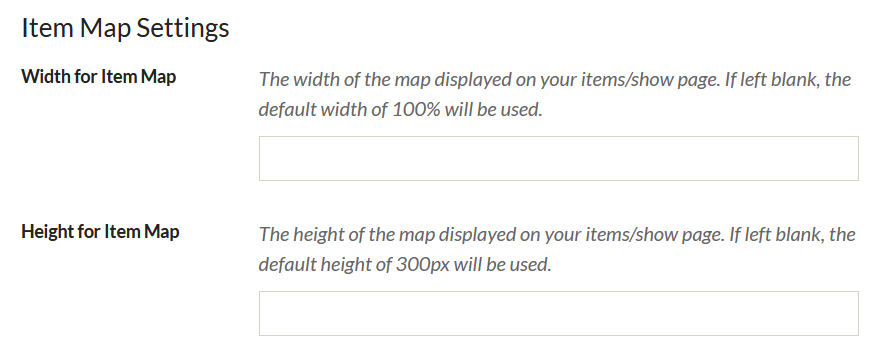
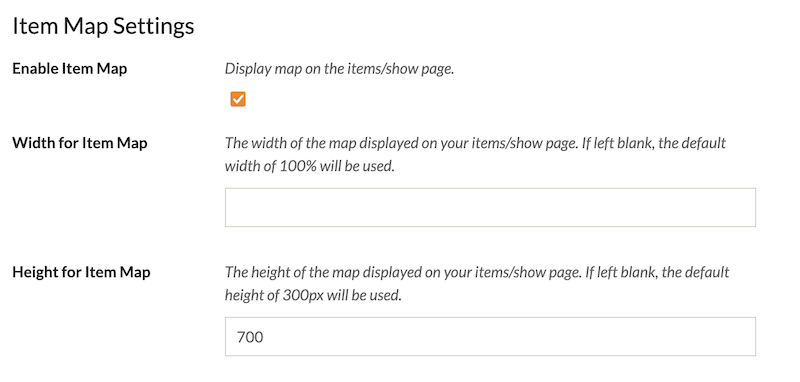
update geolocation config

diff --git a/docs/Plugins/Geolocation.md b/docs/Plugins/Geolocation.md
@@ -1,6 +1,6 @@
 # Geolocation
 
-The [Geolocation plugin](https://omeka.org/classic/plugins/Geolocation/){target=_blank} allows you to assign a location to items in your Omeka Classic site. The locations are displayed on maps on individual items page and on a browsable map of all geolocated items.
+The [Geolocation plugin](https://omeka.org/classic/plugins/Geolocation/){target=_blank} allows you to assign a worldwide location to items in your Omeka Classic site. The locations are displayed on maps on individual items page and on a browsable map of all geolocated items. Maps can also be added to exhibits. 
 
 There is a [screencast for Geolocation (version 2.2.4) demonstrating its basic functionality](https://vimeo.com/156298642){target=_blank}:
 
@@ -77,20 +77,21 @@ The same map with Enable marker clusters checked:
 ![A low-detail map of the British Isles, with one blue map marker in southwest England and a yellow circle with the label 17 roughly over London](../doc_files/plugin_images/geolocation-cluster.png)
 
 ### Item map settings
-These settings are for the map display on an `item/show` page.
+These settings are for the map display on an `item/show` page. 
 
 ![Item Map settings](../doc_files/plugin_images/geolocation_ItemMap.png)
 
+- **Enable Item Map**: - Display a map for each item that has one or more map location markers. For items with no geolocation data, the map is not displayed. The placement of the map is governed by each theme. 
 - **Width for Item Map**: set in percent; defaults to 100% if left blank.
 - **Height for Item Map**: set in pixels; defaults to 300px if left blank. 
 
 ### Map integration
-These settings are for integration of the geolocation map into the site menu and the [Contribution](Contribution.md) plugin's form. 
+These settings are for integration of the geolocation map into browse pages, and into the [Contribution](Contribution.md) plugin's form. 
 
 ![Map Integration settings](../doc_files/plugin_images/geolocation_Mapint.png)
 
-- **Add link to map on Items/Browse navigation**: click to make active. 
-- **Add map to contribution form**: click to make active. Note that this will only work if you have the Contribution plugin installed and active.
+- **Add link to map on Items/Browse navigation**: This will make a "Browse Map" link appear alongside the "Browse Items", "Browse Tags", and "Advanced Search" links at the top of those pages. See the image below in the "View a public map" section. 
+- **Add map to contribution form**: Note that this will only work if you have the Contribution plugin installed and active.
 
 ## Add location to an item
 
@@ -121,15 +122,13 @@ Don't forget to save your changes.
 
 ## View a public map 
 
-Visitors to your Omeka site can now use a map to browse through all of your geolocated items.
+Visitors to your Omeka site can now use a map to browse through all of your geolocated items. The generic map showing all of your items with geolocation metadata can be found at `yourclassicsite/items/map`, which you can enable or disable in your site navigation. 
 
-When configuring the plugin, if you selected "Add Link to Map on Items/Browse Navigation," a "Browse Map" link will be added automatically to the secondary navigation on the `items/browse` page.
+If you enable "Add Link to Map on Items/Browse Navigation" in the plugin configuration, the "Browse Map" link will also be added to the secondary navigation on the `items/browse` page. 
 
 ![Public items map view in the Thanks Roy theme](../doc_files/plugin_images/geolocation_pubbr.png)
 
-From this view, visitors may browse all mapped items, browse by tag, search for items and browse the map.
-
-They may also locate a mapped item by clicking on the items listed in the column to the right side of the map.
+Users can click within the map on pins to see the relevant item, or click an item title in the right sidebar to move the map. 
 
 ## Use the admin map
 
@@ -157,58 +156,4 @@ The exhibit will display a single map with the markers for those specific items,
 
 The geolocation [shortcode](../Content/Shortcodes.md#geolocation) will create a map of items based on parameters it is given.
 
-The shortcode is `[geolocation]`. Without any additional parameters, it will return a map of all items that contain geolocation data, limited by the records per page as set in the Geolocation plugin configuration.
-
-**Options**
-
-`fit`
-:   specify whether to allow google map to automatically center and zoom the map to fit all of the markers. This is on by default.
-
-To manually specify the map/location zoom, use the following options. Note, to use these options, fit must be set to ‘0’ or ‘false’.
-
-`lat` 
-:   specify the latitude of the map’s initial center point, in degrees.
-:   Must be between -90 and 90.
-
-`lon` 
-:   specify the longitude of the map’s initial center point, in degrees.
-:   Must be between -180 and 180
-
-`zoom` 
-:   specify the initial zoom level of the map. 0 is the most zoomed out.
-
-If any of `lat`, `lon`, or `zoom` are not specifically set, and ‘fit’ is set to `0` or `false`, the settings from the Geolocation plugin configuration page will be used.
-
-`type` 
-:   specify the type of google map that appears. Defaults to the setting from the Geolocation plugin configuration page.
-- roadmap - displays the road map view
-- satellite - displays Google Earth satellite images
-- hybrid - displays a mixture of road map and satellite views
-- terrain - displays a physical map based on terrain information
-
-`collection` 
-:   limits the map’s items to those from a specific collection, using the collection ID number. Only one collection may be specified.
-:   For example: `[geolocation collection=5]`
-
-`tags`
-:   limits the map’s items to those from a specific tag. Multiple tags can be entered, separated by a comma, and without any spaces.
-:   For example: `[geolocation tags=baseball,math]`
-
-`height`
-:   set the map height. Can be set in pixels or percentages, but requires specification with either px or %; defaults to 436px.
-:   For example: `[geolocation height=300px]` or `[geolocation height=50%]`
-
-`width` 
-:   set the map width. Can be set in pixels or percentages, but requires specification with either px or %; defaults to 100%.
-:   For example: `[geolocation width=200px]` or `[geolocation width=75%]`
-
-**Examples**
-
-To print a map of all geotagged items, simply use: 
-:  `[geolocation]`
-
-For a map that gets all of the items from your first collection, that are also tagged ‘baseball’
-: `[geolocation collection=1 tags=baseball]`
- 
-A shortcode that leveraged all of the possible parameters would look like
-:    `[geolocation lat=42 lon=117 zoom=7 type=hybrid collection=4 tags=baseball,math,oakland height=500px width=500px]`
+The shortcode is `[geolocation]`. Without any additional parameters, it will return a map of all items that contain geolocation data, limited by the records per page as set in the Geolocation plugin configuration. See the relevant section on the Shortcodes page for more information. 